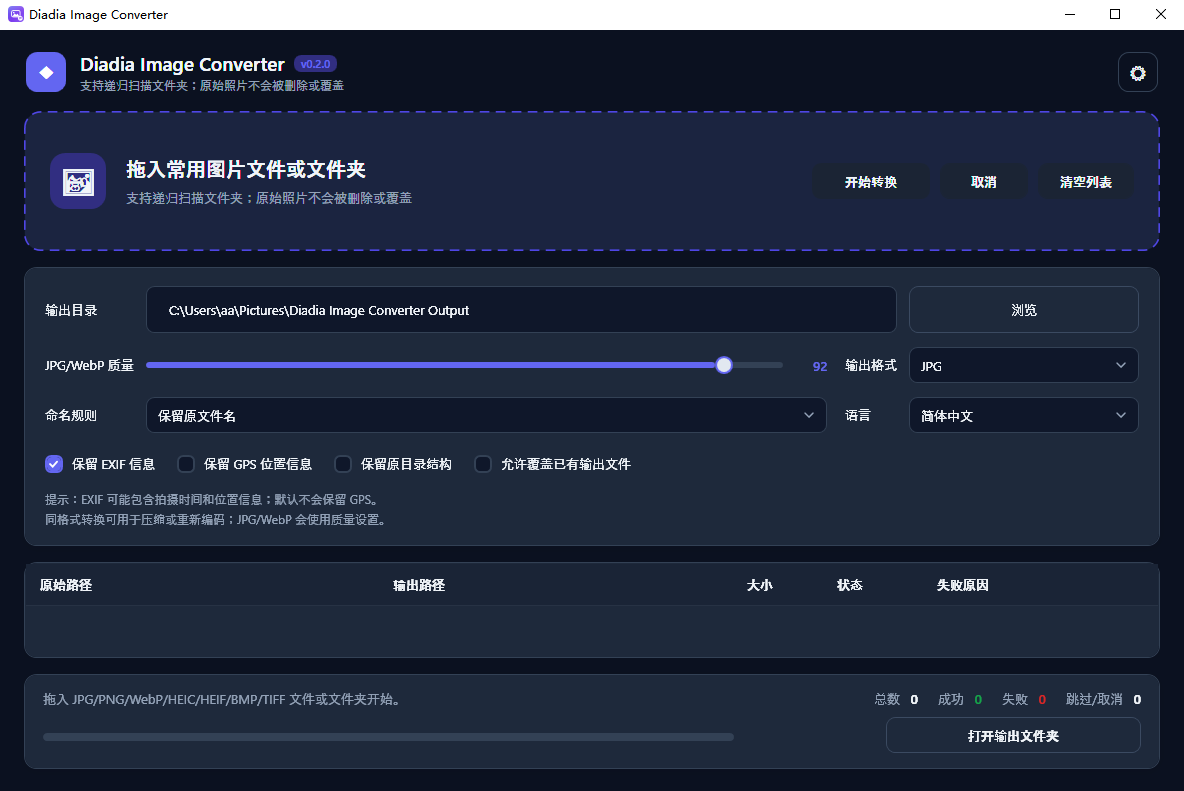
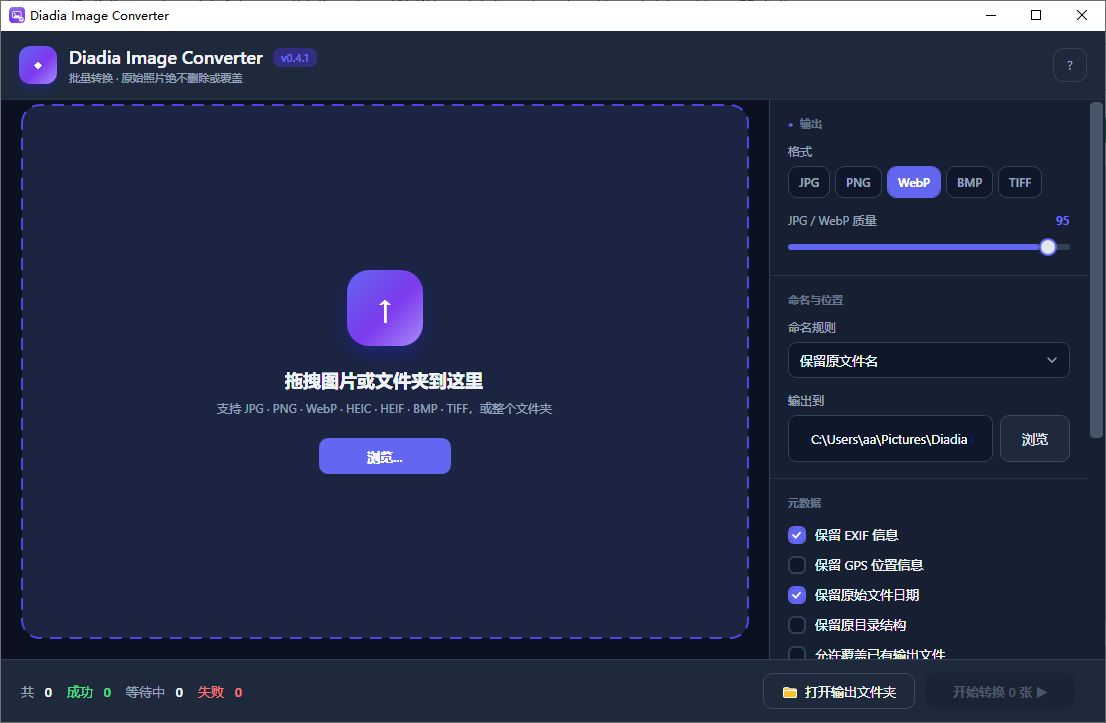
Release v0.4.1: complete translations, refresh screenshots
- Full UI translations for the remaining 11 languages (committed earlier).
- Updated README light/dark screenshots to the current interface.

diff --git a/CHANGELOG.md b/CHANGELOG.md
@@ -4,6 +4,13 @@
 
 ## [Unreleased]
 
+## [0.4.1] — 2026-07-05
+### 新增 / Added
+- 补全其余 11 种界面语言的翻译（de/es/fr/it/ja/ko/pl/pt-BR/ru/tr/cs），此前 v0.3/v0.4 新增文案在这些语言下仍为英文占位。
+
+### 变更 / Changed
+- 更新 README 截图为最新界面。
+
 ## [0.4.0] — 2026-07-04
 ### 修复 / Fixed
 - 修复**添加文件即闪退**的严重问题:文件行模板中两处只读属性(文件大小)被 `Run` 默认的 TwoWay 绑定劫持，导致模板实例化时抛出未捕获异常。
@@ -68,7 +75,8 @@
 - 取消后续跑、安全写入（先临时文件后移动）、绝不删除或覆盖原图。
 - 14 种界面语言；设置持久化；转换日志。
 
-[Unreleased]: https://github.com/dosheda/ImageConverter/compare/v0.4.0...HEAD
+[Unreleased]: https://github.com/dosheda/ImageConverter/compare/v0.4.1...HEAD
+[0.4.1]: https://github.com/dosheda/ImageConverter/releases/tag/v0.4.1
 [0.4.0]: https://github.com/dosheda/ImageConverter/releases/tag/v0.4.0
 [0.3.2]: https://github.com/dosheda/ImageConverter/releases/tag/v0.3.2
 [0.3.1]: https://github.com/dosheda/ImageConverter/releases/tag/v0.3.1